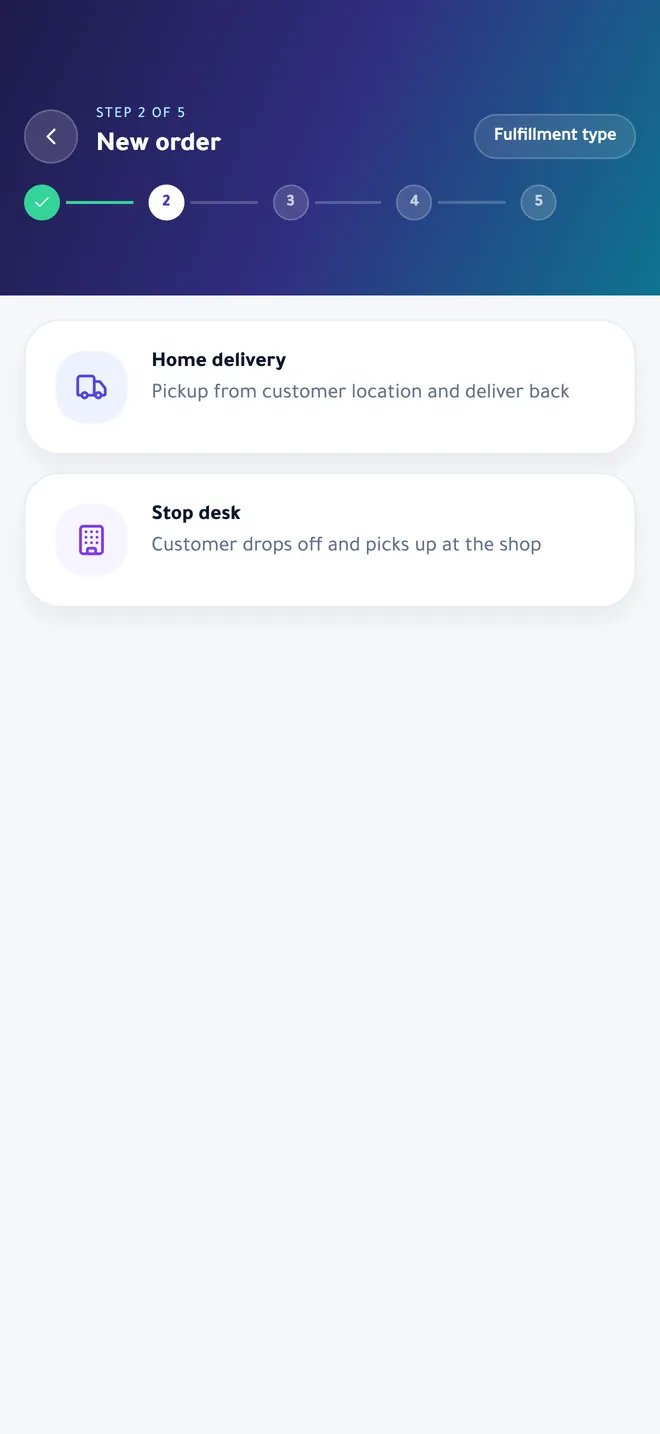
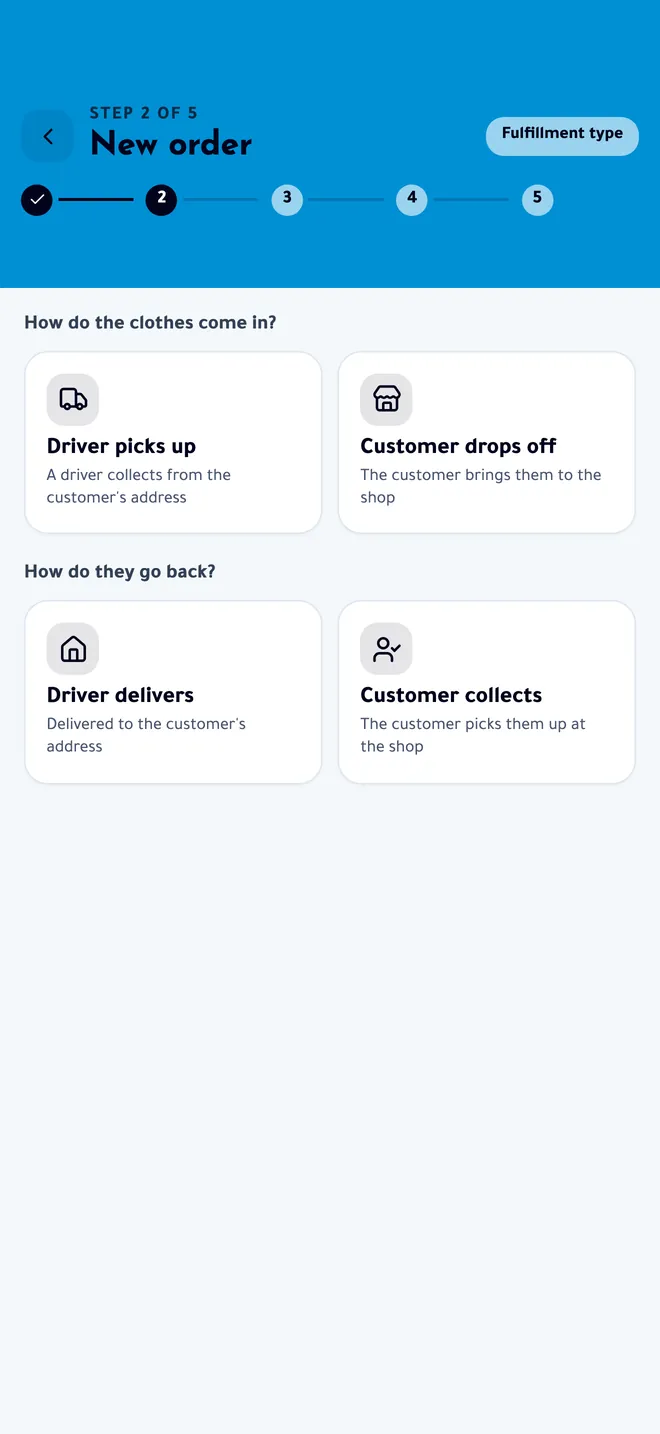
VAR: film rebuilt from the 1.1.0 redesign; the wall adds Jarrib (256 screens, 22 apps)

diff --git a/public/reels/var/film/caps.js b/public/reels/var/film/caps.js
@@ -1,1 +1,1 @@
-window.CAPS = {"shots":{"o01_dashboard":{"name":"o01_dashboard","scroller":{"top":260,"left":0,"w":440,"h":598,"sh":1283,"st":0},"strip":{"top":260,"h":1283},"url":"/","cards":[{"label":"hero KPI block","x":16,"y":276,"w":408,"h":102},{"label":"status case card","x":16,"y":715,"w":193.8,"h":110}]},"o03_order":{"name":"o03_order","scroller":{"top":164,"left":0,"w":440,"h":792,"sh":1500,"st":0},"strip":{"top":164,"h":1500},"url":"/order/fa3ab00e-e282-4a35-b547-06dee889dd26","cards":[{"label":"QR block","x":16,"y":180,"w":408,"h":326}]},"o06_wizard_customer":{"name":"o06_wizard_customer","url":"/order/new","taps":[{"label":"Fatima Al-Qahtani","x":33,"y":776,"w":374,"h":17}]},"o07_wizard_type":{"name":"o07_wizard_type","url":"/order/new","taps":[{"label":"Home delivery","x":101,"y":234,"w":302,"h":17}]},"o08_wizard_products":{"name":"o08_wizard_products","url":"/order/new","taps":[{"label":"Abaya — Dry Clean","x":33,"y":733,"w":281.7,"h":17}]},"o08_wizard_cart":{"name":"o08_wizard_cart","scroller":{"top":197,"left":0,"w":440,"h":759,"sh":1131,"st":372},"strip":{"top":197,"h":1131},"url":"/order/new","taps":[{"label":"Next","x":189.3,"y":863,"w":61.4,"h":24}]},"o10_statistics_30d":{"name":"o10_statistics_30d","scroller":{"top":154,"left":0,"w":440,"h":802,"sh":968,"st":0},"strip":{"top":154,"h":968},"url":"/statistics","cards":[{"label":"bar chart","x":16,"y":470,"w":408,"h":221},{"label":"KPI tile: revenue","x":16,"y":220,"w":198,"h":113}]},"s01_queue":{"name":"s01_queue","scroller":{"top":260,"left":0,"w":440,"h":696,"sh":1376,"st":0},"strip":{"top":260,"h":1376},"url":"/","cards":[{"label":"Next up card","x":16,"y":652,"w":408,"h":184}]},"d01_home":{"name":"d01_home","scroller":{"top":260,"left":0,"w":440,"h":696,"sh":1118,"st":0},"strip":{"top":260,"h":1118},"url":"/","cards":[{"label":"next-stop card","x":16,"y":639,"w":408,"h":208}],"taps":[{"label":"Open","x":327.4,"y":797,"w":27.1,"h":16},{"label":"Map","x":236,"y":535,"w":72.5,"h":13}]}}};
+window.CAPS = {"shots":{"o01_dashboard":{"name":"o01_dashboard","scroller":{"top":209.75,"left":0,"w":440,"h":647.25,"sh":1289,"st":0},"strip":{"top":209.75,"h":1289},"url":"/","cards":[{"label":"accepting-orders banner","x":17.5,"y":141.5,"w":405,"h":54.3,"r":12},{"label":"hero KPI block","x":14,"y":223.8,"w":412,"h":84.1,"r":16},{"label":"Add Order button","x":14,"y":321.9,"w":412,"h":53.1,"r":12},{"label":"Essential cases list","x":14,"y":529.2,"w":412,"h":350,"r":16}],"taps":[{"label":"Orders tab","x":115.9,"y":895.5,"w":32.1,"h":13},{"label":"Customers quick action","x":234.1,"y":442.5,"w":76.9,"h":14},{"label":"Add Order","x":198.9,"y":336.9,"w":69.1,"h":23.1},{"label":"Reports tab","x":289.7,"y":895.5,"w":36.7,"h":13},{"label":"Drivers map quick action","x":339.3,"y":442.5,"w":76.9,"h":14}]},"o03_order":{"name":"o03_order","scroller":{"top":159.109375,"left":0,"w":440,"h":796.890625,"sh":1421,"st":0},"strip":{"top":159.109375,"h":1422},"url":"/order/fa3ab00e-e282-4a35-b547-06dee889dd26","cards":[{"label":"QR block","x":16,"y":175.1,"w":408,"h":313.7,"r":16},{"label":"QR code","x":132,"y":205.6,"w":176,"h":176,"r":0},{"label":"Print receipt button","x":157.5,"y":433.5,"w":125,"h":36.8,"r":12},{"label":"customer card","x":16,"y":500.8,"w":408,"h":159.7,"r":16},{"label":"Call button","x":31,"y":609.9,"w":185.5,"h":35.5,"r":12}]},"o06_wizard_customer":{"name":"o06_wizard_customer","url":"/order/new","taps":[{"label":"Fatima Al-Qahtani","x":31,"y":736.6,"w":378,"h":18}]},"o07_wizard_type":{"name":"o07_wizard_type","url":"/order/new","taps":[{"label":"Driver picks up","x":31,"y":290.8,"w":168.8,"h":18}]},"o07_wizard_type_pickup":{"name":"o07_wizard_type_pickup","url":"/order/new","taps":[{"label":"Driver delivers","x":31,"y":459.2,"w":168.8,"h":18}]},"o08_wizard_products":{"name":"o08_wizard_products","url":"/order/new","taps":[{"label":"Abaya — Dry Clean","x":31,"y":695.1,"w":288.2,"h":18}]},"o08_wizard_cart":{"name":"o08_wizard_cart","scroller":{"top":191.59375,"left":0,"w":440,"h":764.40625,"sh":1057,"st":293},"strip":{"top":191.59375,"h":1057},"url":"/order/new","cards":[{"label":"cart summary","x":16,"y":545.4,"w":408,"h":369.5,"r":16}],"taps":[{"label":"Continue","x":190.4,"y":866.4,"w":59.1,"h":23.1}]},"o11_reports":{"name":"o11_reports","scroller":{"top":175.90625,"left":0,"w":440,"h":681.09375,"sh":1579,"st":0},"strip":{"top":175.90625,"h":1579},"url":"/reports","cards":[{"label":"projection card","x":16,"y":191.9,"w":408,"h":293.9,"r":16},{"label":"KPI grid","x":16,"y":497.8,"w":408,"h":189,"r":16},{"label":"daily revenue chart","x":16,"y":698.8,"w":408,"h":223.1,"r":16}],"taps":[{"label":"Menu tab","x":382.8,"y":895.5,"w":26.3,"h":13}]},"s01_queue":{"name":"s01_queue","scroller":{"top":209.75,"left":0,"w":440,"h":746.25,"sh":1382,"st":0},"strip":{"top":209.75,"h":1382},"url":"/","cards":[{"label":"working banner","x":17.5,"y":141.5,"w":405,"h":54.3,"r":12},{"label":"KPI row","x":14,"y":223.8,"w":412,"h":97.3,"r":16},{"label":"Next up card","x":14,"y":570.4,"w":412,"h":169,"r":16}]},"d01_home":{"name":"d01_home","scroller":{"top":209.75,"left":0,"w":440,"h":746.25,"sh":1235,"st":0},"strip":{"top":209.75,"h":1235},"url":"/","cards":[{"label":"KPI row","x":14,"y":223.8,"w":412,"h":97.3,"r":16},{"label":"next-stop card","x":14,"y":556.4,"w":412,"h":192.4,"r":16}],"taps":[{"label":"Open","x":329.4,"y":703.1,"w":26.1,"h":15.4},{"label":"Map","x":234.1,"y":462.7,"w":76.9,"h":14}]}}};

diff --git a/public/reels/var/film/product.js b/public/reels/var/film/product.js
@@ -9,22 +9,24 @@ window.PRODUCT = {
   kicker: 'iOS · Android · Saudi Arabia',
   line: ['Laundry operations for owners,', [['staff and drivers.', true]]],
   displayLs: -0.01,
-  // apps/mobile/lib/theme.ts: the night gradient (#1e1b4b → #312e81) with indigo #4f46e5 and cyan #22d3ee
+  // apps/mobile/lib/theme.ts, the 1.1.0 "Sky" theme (Nov 2026): deep blue #02041C, UI blue #0090D4, brand blue #00B6FE
   pal: {
-    bg: '#14123A', bg2: '#2A2672', ink: '#F1F0FF', title: '#FFFFFF', muted: '#A5A8D6',
-    accent: '#22D3EE', accentText: '#22D3EE', dots: '#A5A8D640',
-    shapes: ['#4F46E5', '#2B286E', '#25235F', '#22D3EE'],
-    shadow: 'rgba(5,4,20,.6)', rim: 'rgba(180,190,255,.35)', pillBg: '#22D3EE', pillInk: '#14123A',
+    bg: '#02041C', bg2: '#0B2A44', ink: '#EAF6FD', title: '#FFFFFF', muted: '#8FB3CC',
+    accent: '#00B6FE', accentText: '#33C5FE', dots: '#8FB3CC40',
+    shapes: ['#0090D4', '#0B2A44', '#071A30', '#00B6FE'],
+    shadow: 'rgba(0,4,16,.65)', rim: 'rgba(160,220,255,.38)', pillBg: '#00B6FE', pillInk: '#02041C',
   },
-  screenBg: '#F6F7FB',
-  wall: ['o01_dashboard', 'o03_order', 'd01_home', 'o10_statistics_30d', 's01_queue', 'o08_wizard_cart', 'o02_orders', 'o05_customer', 'd02_order', 'o07_wizard_type', 'o04_customers', 'd03_map', 'o09_wizard_schedule', 's02_order', 'o08_wizard_products'],
+  screenBg: '#F4F8FB',
+  wall: ['o01_dashboard', 'o03_order', 'd01_home', 'o11_reports', 's01_queue', 'o08_wizard_cart', 'o02_orders', 'o05_customer', 'd02_order', 'o07_wizard_type', 'o04_customers', 'd03_map', 'o10_statistics_30d', 's02_order', 'o12_menu'],
   hero: {
+    // real taps recorded by projects/var/tools/capture.mjs (meta.json); each tap is on the screen before
     seq: [
       { at: 9, shot: 'o01_dashboard' },
-      { at: 10.5, shot: 'o06_wizard_customer', push: true, tap: { x: 16, y: 578, w: 320, h: 46 } },
-      { at: 11.75, shot: 'o07_wizard_type', push: true, tap: { x: 33, y: 776, w: 374, h: 17 } },
-      { at: 13, shot: 'o08_wizard_products', push: true, tap: { x: 101, y: 234, w: 302, h: 17 } },
-      { at: 14.25, shot: 'o08_wizard_cart', tap: { x: 33, y: 733, w: 281.7, h: 17 } },
+      { at: 10.25, shot: 'o06_wizard_customer', push: true, tap: { x: 14, y: 321.9, w: 412, h: 53.1 } },
+      { at: 11.25, shot: 'o07_wizard_type', push: true, tap: { x: 31, y: 736.6, w: 378, h: 18 } },
+      { at: 12.25, shot: 'o07_wizard_type_pickup', tap: { x: 31, y: 290.8, w: 168.8, h: 18 } },
+      { at: 13.25, shot: 'o08_wizard_products', push: true, tap: { x: 31, y: 459.2, w: 168.8, h: 18 } },
+      { at: 14.5, shot: 'o08_wizard_cart', tap: { x: 31, y: 695.1, w: 288.2, h: 18 } },
     ],
     say: [
       { at: 9.3, kick: 'Owner app', lines: ['A new order', [['in four taps.', true]]] },
@@ -35,11 +37,11 @@ window.PRODUCT = {
     shot: 'o03_order',
     title: ['Every bag tracked,', [['pickup to delivery.', true]]],
     cards: [
-      { x: 136, y: 206, w: 184, h: 192, r: 12, label: 'A QR on every order', sub: 'Scan to move it along', side: -1 },
-      { x: 160, y: 440, w: 128, h: 40, r: 20, label: 'Print receipt', sub: 'The QR goes on the bag', side: 1 },
-      { x: 16, y: 524, w: 408, h: 140, r: 18, label: 'Fatima Al-Qahtani', sub: 'Call or message in one tap', side: -1 },
+      { x: 132, y: 205.6, w: 176, h: 176, r: 8, label: 'A QR on every order', sub: 'Scan to move it along', side: -1 },
+      { x: 157.5, y: 433.5, w: 125, h: 36.8, r: 12, label: 'Print receipt', sub: 'The QR goes on the bag', side: 1 },
+      { x: 16, y: 500.8, w: 408, h: 159.7, r: 16, label: 'Fatima Al-Qahtani', sub: 'Call or message in one tap', side: -1 },
     ],
   },
-  trio: ['d01_home', 's01_queue', 'o10_statistics_30d'],
+  trio: ['d01_home', 's01_queue', 'o11_reports'],
   end: { line: 'The whole laundry, in one app.', pills: ['iOS', 'Android', '3 roles', 'Arabic + English'] },
 };

diff --git a/public/reels/var/film/film.js b/public/reels/var/film/film.js
@@ -196,7 +196,8 @@
       D.body = reg(el('div', { class: 'abs', style: `width:${PW}px;height:${PH}px;border-radius:${RAD}px;background:${bar};box-shadow:inset 0 0 0 1.5px ${PAL.rim || 'rgba(0,0,0,.08)'}` }, root,
         `<div style="position:absolute;left:24px;top:20px;display:flex;gap:9px">${['#ff5f57', '#febc2e', '#28c840'].map((c) => `<span style="width:14px;height:14px;border-radius:50%;background:${c}"></span>`).join('')}</div>
          <div style="position:absolute;left:${PW / 2 - 300}px;top:11px;width:600px;height:32px;border-radius:10px;background:${pill};display:flex;align-items:center;justify-content:center;gap:9px;font-family:-apple-system,'SF Pro Text',UI,sans-serif;font-size:17px;font-weight:500;color:${ink};box-shadow:0 1px 2px rgba(0,0,0,.06)">
-           <svg width="12" height="14" viewBox="0 0 12 14" fill="${ink}"><rect x="1" y="6" width="10" height="8" rx="2"/><path d="M3 6V4a3 3 0 0 1 6 0v2" fill="none" stroke="${ink}" stroke-width="1.6"/></svg>${P.domain || ''}</div>`));
+           <svg width="12" height="14" viewBox="0 0 12 14" fill="${ink}"><rect x="1" y="6" width="10" height="8" rx="2"/><path d="M3 6V4a3 3 0 0 1 6 0v2" fill="none" stroke="${ink}" stroke-width="1.6"/></svg><span class="urltxt">${P.domain || ''}</span></div>`));
+      D.url = reg(D.body.querySelector('.urltxt'));
       D.glass = reg(el('div', { class: 'abs', style: `width:${SW}px;height:${SH}px;border-radius:0 0 ${RAD}px ${RAD}px;overflow:hidden;background:${P.screenBg || '#fff'}` }, root));
     } else {
       D.body = reg(el('div', { class: 'abs', style: `width:${PW}px;height:${PH}px;border-radius:${RAD}px;background:#0b0d10;box-shadow:inset 0 0 0 1.5px ${PAL.rim || 'rgba(255,255,255,.14)'}, inset 0 0 0 5px #15181c` }, root));
@@ -218,6 +219,7 @@
     onPlane(D.glass, Q, 0, 0, 0.5);
   }
   function showScreen(D, name, st = {}) {
+    if (D.url && P.domains) put(D.url, { text: P.domains[name] || P.domain || '' });
     for (const [n, V] of Object.entries(D.screens)) {
       // the incoming screen always stacks above the one it pushes away, whatever order the views were built in
       if (n === name) { V.style(); put(V.v, { hide: false, x: st.x || 0, o: st.o ?? 1, css: { zIndex: '2' } }); if (V.strip) put(V.strip, { y: -(st.scroll || 0) }); }
